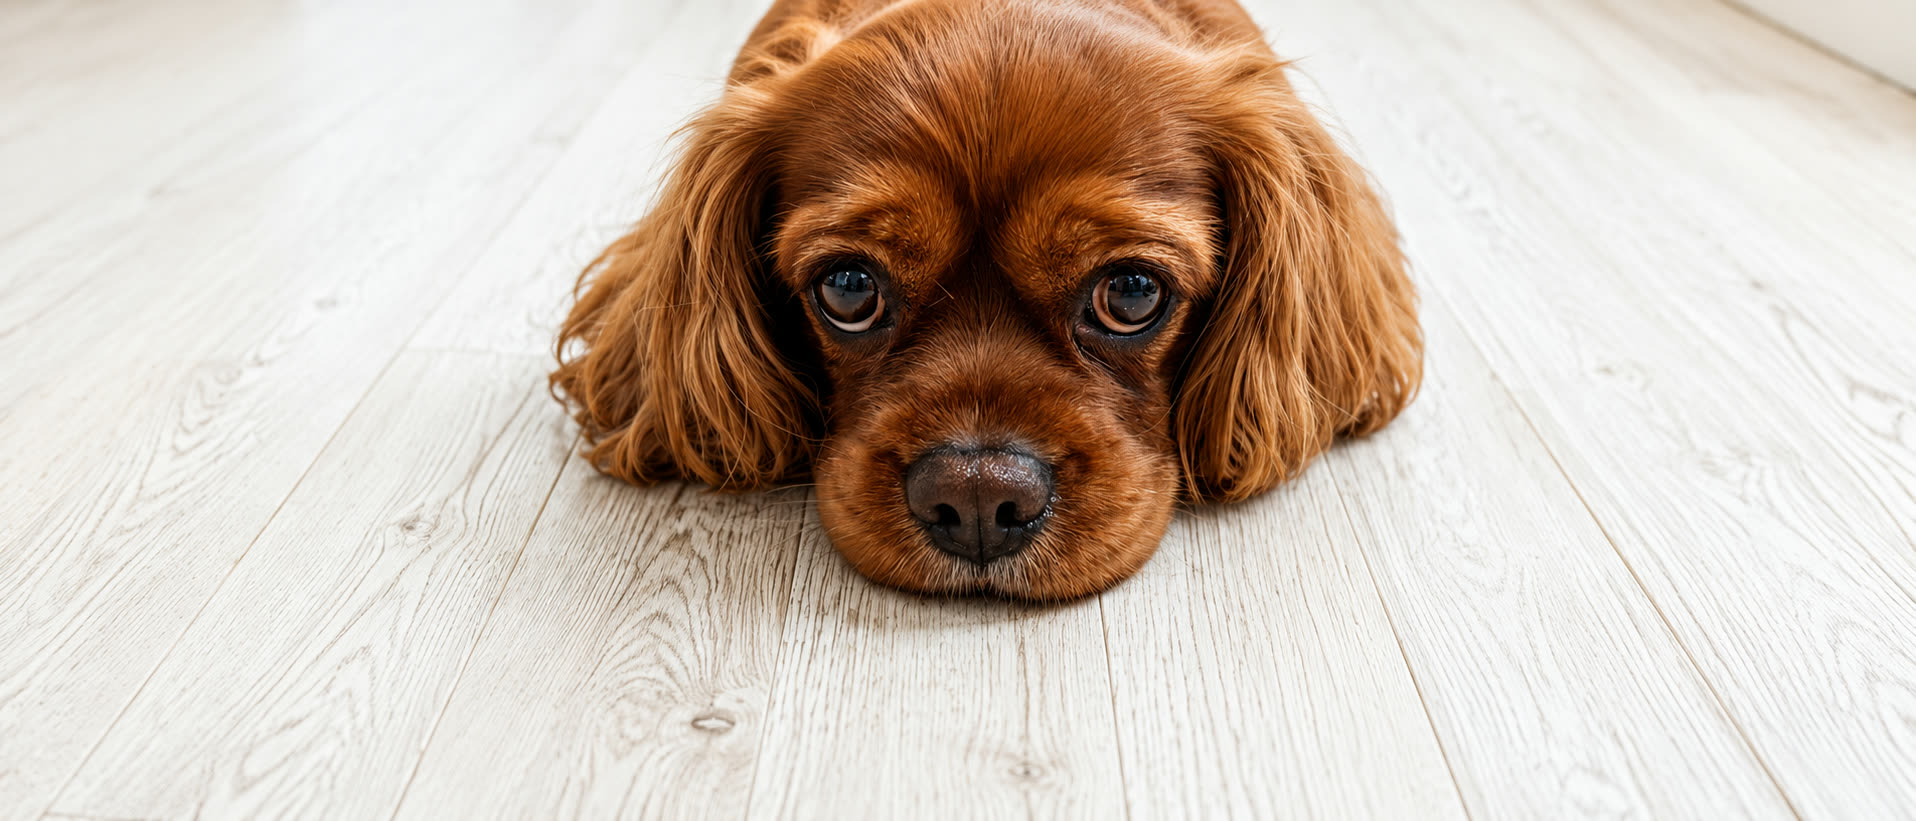
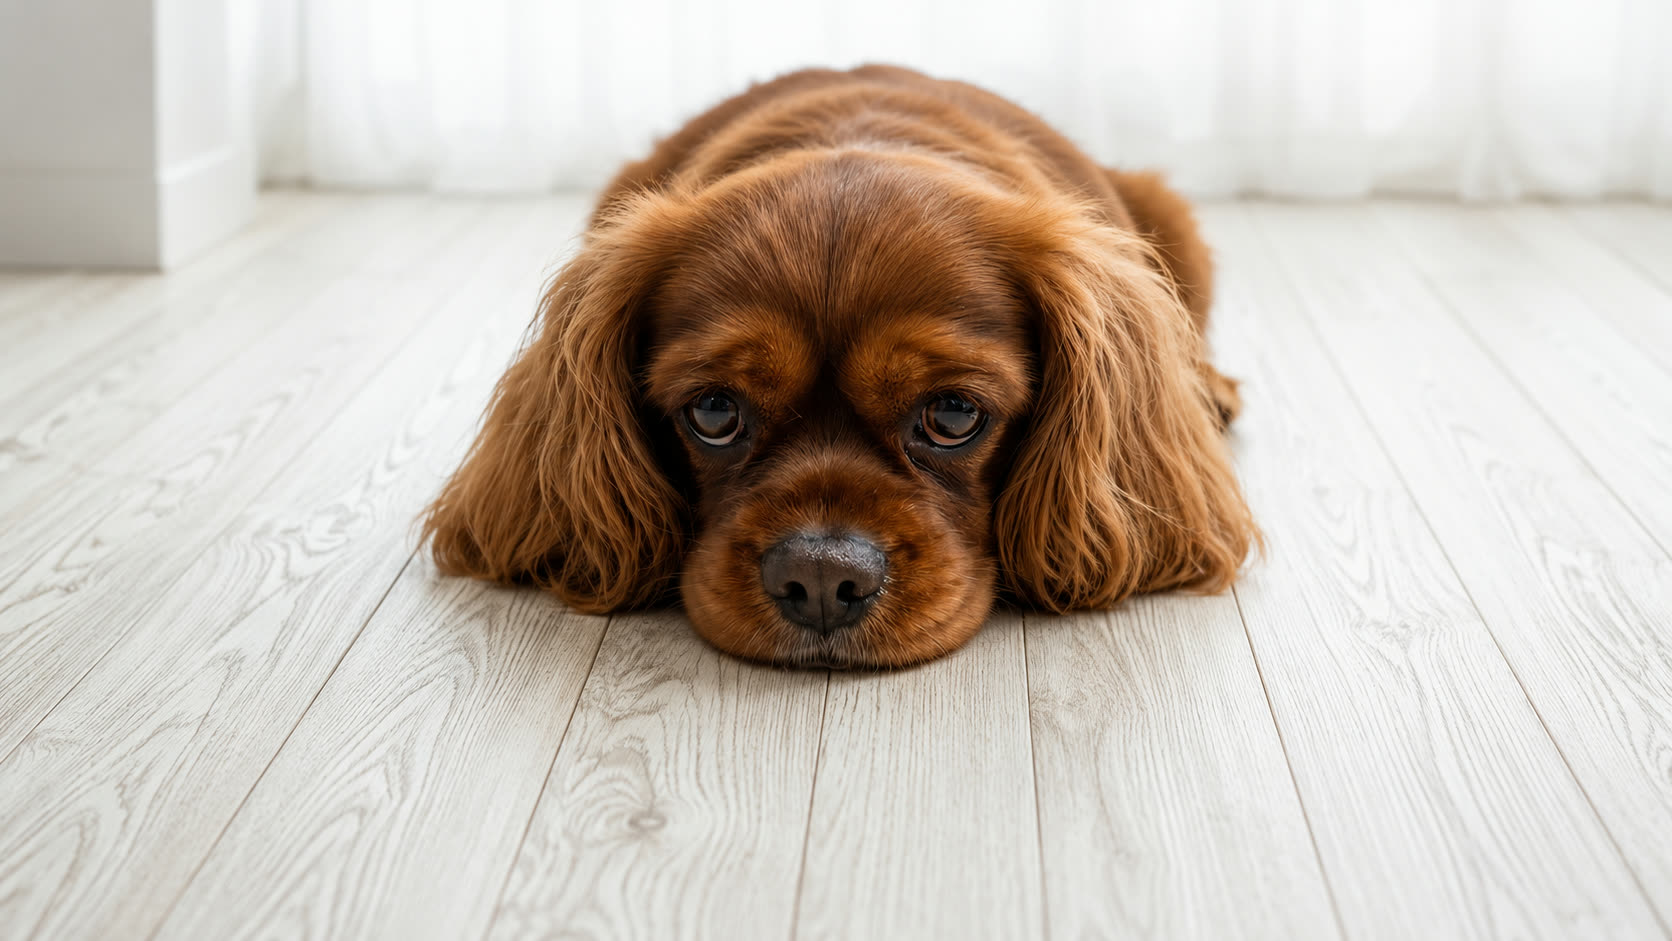
お問い合わせページのヒーロー帯を新画像に差し替え、PC被写体位置を調整

diff --git a/contact.html b/contact.html
@@ -27,7 +27,7 @@
     <style>
         /* ヒーロー */
         .contact-hero {
-            background: url('images/hero/contact-dog.jpg') center 20%/cover no-repeat;
+            background: url('images/hero/contact-dog.jpg') center 40%/cover no-repeat;
             padding: 140px 20px 110px;
             text-align: center;
             position: relative;
